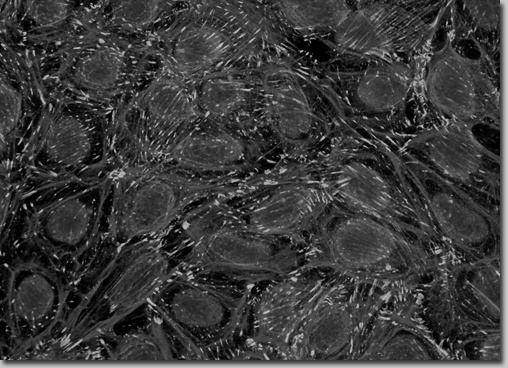
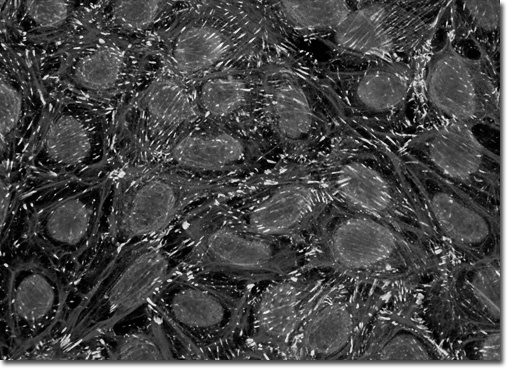
Implemented grey and blue thresholds

diff --git a/HW1A/HW1A.py b/HW1A/HW1A.py
@@ -9,14 +9,44 @@ path = path[:-1]
 img = cv.imread(r'C:\Users\ellie\OneDrive\Desktop\Fall 2024\Digital Image Processing\HW1A\Bone_cells.jpg')
 imgB, imgG, imgR = cv.split(img)
 
+'''Color to Greyscale Conversion'''
 #Weigh channels to form greyscale image
-imgGrey = cv.addWeighted(imgB, .1140, imgG, .5871, 0)
+imgGrey = cv.addWeighted(imgB, .1626, imgG, .8374, 0)
 imgGrey = cv.addWeighted(imgGrey, .7011, imgR, .2989, 0)
 
 #Display image
 cv.imshow("Cells", imgGrey)
 cv.waitKey(0)
+cv.destroyAllWindows()
 
 #Save greyscale image
 filename = str(path + "Bone_cells_grey.jpg")
 cv.imwrite(filename, imgGrey)
+
+'''Greyscale Image Binarization'''
+#Get user input for threshold value
+threshold = input("What intensity level do you want to set the threshold at (0-255)? ")
+
+#Apply threshold function and display image
+ret, imgGreyThreshold = cv.threshold(imgGrey, float(threshold), float(255), cv.THRESH_BINARY)
+cv.imshow("Cells", imgGreyThreshold)
+cv.waitKey(0)
+cv.destroyAllWindows()
+
+#Save greyscale binarization image
+filename = str(path + "Bone_cells_threshold_grey.jpg")
+cv.imwrite(filename, imgGreyThreshold)
+
+'''Color Channel Binarization'''
+#Get user input for threshold value
+threshold = input("What intensity level do you want to set the blue threshold at (0-255)? ")
+
+#Apply threshold and display image
+ret, imgBlueThreshold = cv.threshold(imgB, float(threshold), float(255), cv.THRESH_BINARY)
+cv.imshow("Cells", imgBlueThreshold)
+cv.waitKey(0)
+cv.destroyAllWindows()
+
+#Save greyscale binarization image
+filename = str(path + "Bone_cells_threshold_blue.jpg")
+cv.imwrite(filename, imgBlueThreshold)
